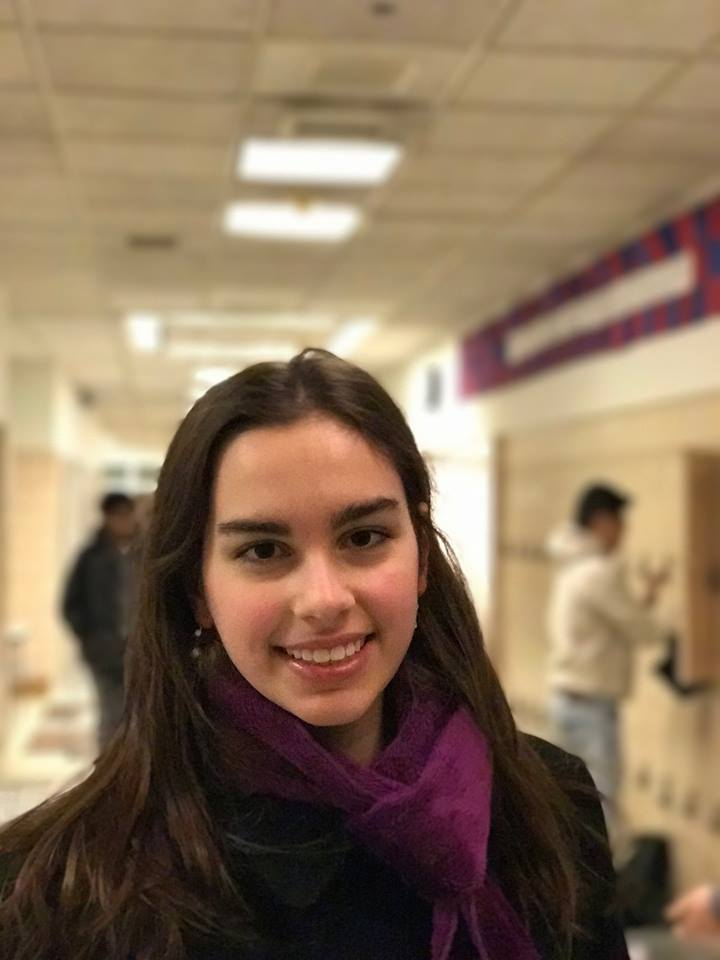
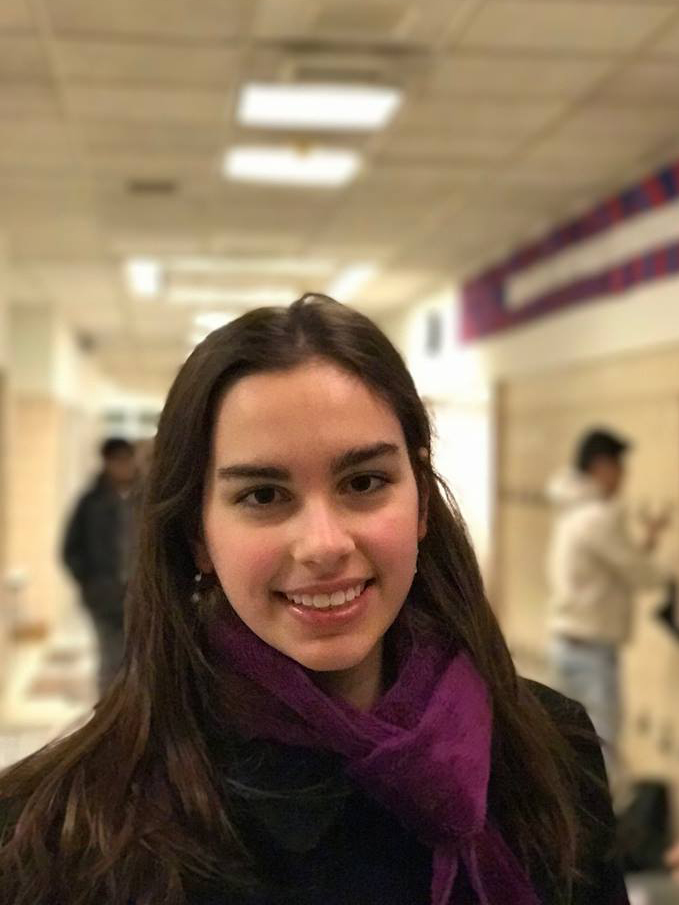
added image

diff --git a/index.html b/index.html
@@ -111,7 +111,7 @@
           </div>
         </div>
         <div class="col-md-3 col-sm-6 team">
-          <div class="thumbnail"> <img src="" alt="Ali" class="team-img">
+          <div class="thumbnail"> <img src="img/image2.jpg" alt="Ali" class="team-img">
             <div class="caption">
               <h4>Alina Luckey</h4>
               <p>Vice President</p>
@@ -253,7 +253,8 @@
         <div class="row">
           <div class="section-title">
             <h2>Get In Touch</h2>
-            <p>Please fill out the form below to send us an email and we will get back to you as soon as possible.</p>
+            <p>Please fill out the form below to send us an email and we will get back to you as soon as possible.
+              <br>If our mail server is not responding, please contact us through the facebook link below.</p>
           </div>
           <form name="sentMessage" id="contactForm" novalidate>
             <div class="row">
